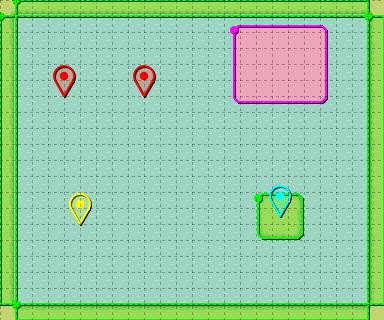
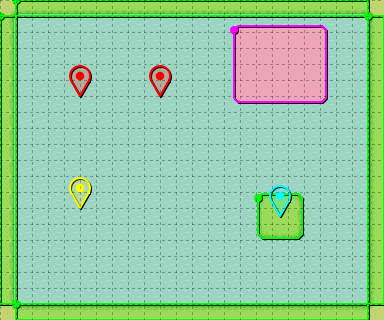
fixed wrong spawnpoints in tutorial map

Changed region(s): [[0.3438, 0.1875, 0.4688, 0.3125], [0.125, 0.1875, 0.25, 0.3125], [0.1562, 0.5312, 0.25, 0.7188]]

diff --git a/src/scenes/game_level.cpp b/src/scenes/game_level.cpp
@@ -53,7 +53,6 @@ void GameLevel::Init() {
 
     // create player
     Entity player = createPlayer({WINDOW_WIDTH_PX / 2, WINDOW_HEIGHT_PX / 2});
-
     // load map
     registry.list_all_components();
     std::cout << "loading map..." << std::endl;
@@ -421,10 +420,6 @@ void GameLevel::HandleInput(int key, int action, int mod) {
         }
     } else {
         HandlePlayerMovement(key, action, mod);
-    }
-
-    if (action == GLFW_RELEASE && key == GLFW_KEY_K) {
-        registry.simpleCannons.components[0].is_automated = !registry.simpleCannons.components[0].is_automated;
     }
 
     LevelHandleInput(key, action, mod);
